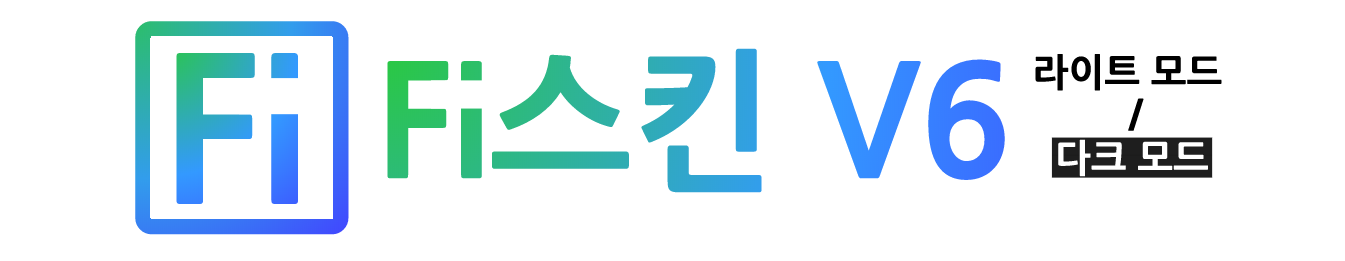
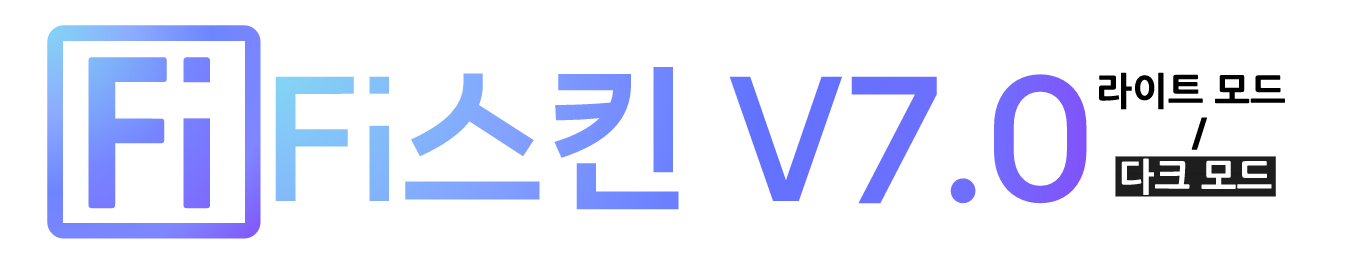
Add files via upload

diff --git a/images/itcider_top.js b/images/itcider_top.js
@@ -1,6 +1,6 @@
 /*
 스킨명 : fast itcider
-버전 : V6.1
+버전 : V7.0
 제작자 : itcider 쉽고 시원한 it
 제작자 웹사이트 : itcider.com
 사용 조건 : itcider license
@@ -12,6 +12,7 @@
 ㄴitcider 공식 웹사이트에서만 배포 가능
 위 주의사항을 어기실 경우 사용 불가합니다.
 */
+/*
 //Get the button:
 mybutton = document.getElementById("myBtn");
 
@@ -25,7 +26,7 @@ function scrollFunction() {
     mybutton.style.display = "none";
   }
 }
-
+*/
 // When the user clicks on the button, scroll to the top of the document
 function topFunction() {
   document.body.scrollTop = 0; // For Safari

diff --git a/images/autolightdark.css b/images/autolightdark.css
@@ -1,7 +1,7 @@
 @charset "UTF-8";
 /*
 스킨명 : fast itcider
-버전 : V6.1
+버전 : V7.0
 제작자 : itcider 쉽고 시원한 it
 제작자 웹사이트 : itcider.com
 사용 조건 : itcider license
@@ -40,7 +40,9 @@
   }
 
 
-
+  blockquote{
+    color: #aaa!important;
+  }
   footer,
   #header,
   .mobile-menu #aside,
@@ -359,7 +361,7 @@
 }
 /*
 스킨명 : fast itcider
-버전 : V6.1
+버전 : V7.0
 제작자 : itcider 쉽고 시원한 it
 제작자 웹사이트 : itcider.com
 사용 조건 : itcider license

diff --git a/images/onlydark.css b/images/onlydark.css
@@ -1,7 +1,7 @@
 @charset "UTF-8";
 /*
 스킨명 : fast itcider
-버전 : V6.1
+버전 : V7.0
 제작자 : itcider 쉽고 시원한 it
 제작자 웹사이트 : itcider.com
 사용 조건 : itcider license
@@ -355,7 +355,7 @@
 
 /*
 스킨명 : fast itcider
-버전 : V6.1
+버전 : V7.0
 제작자 : itcider 쉽고 시원한 it
 제작자 웹사이트 : itcider.com
 사용 조건 : itcider license

diff --git a/images/onlylight.css b/images/onlylight.css
@@ -1,6 +1,6 @@
 /*
 스킨명 : fast itcider
-버전 : V6.1
+버전 : V7.0
 제작자 : itcider 쉽고 시원한 it
 제작자 웹사이트 : itcider.com
 사용 조건 : itcider license
@@ -16,7 +16,7 @@
 
 /*
 스킨명 : fast itcider
-버전 : V6.1
+버전 : V7.0
 제작자 : itcider 쉽고 시원한 it
 제작자 웹사이트 : itcider.com
 사용 조건 : itcider license

diff --git a/images/discopy.js b/images/discopy.js
@@ -1,6 +1,6 @@
 /*
 스킨명 : fast itcider
-버전 : V6.1
+버전 : V7.0
 제작자 : itcider 쉽고 시원한 it
 제작자 웹사이트 : itcider.com
 사용 조건 : itcider license

diff --git a/images/ietoedge.js b/images/ietoedge.js
@@ -1,6 +1,6 @@
 /*
 스킨명 : fast itcider
-버전 : V6.1
+버전 : V7.0
 제작자 : itcider 쉽고 시원한 it
 제작자 웹사이트 : itcider.com
 사용 조건 : itcider license

diff --git a/images/ietoieitc.js b/images/ietoieitc.js
@@ -1,6 +1,6 @@
 /*
 스킨명 : fast itcider
-버전 : V6.1
+버전 : V7.0
 제작자 : itcider 쉽고 시원한 it
 제작자 웹사이트 : itcider.com
 사용 조건 : itcider license

diff --git a/images/ietoitc.js b/images/ietoitc.js
@@ -1,6 +1,6 @@
 /*
 스킨명 : fast itcider
-버전 : V6.1
+버전 : V7.0
 제작자 : itcider 쉽고 시원한 it
 제작자 웹사이트 : itcider.com
 사용 조건 : itcider license

diff --git a/images/itcidercategory.js b/images/itcidercategory.js
@@ -1,6 +1,6 @@
 /*
 스킨명 : fast itcider
-버전 : V6.1
+버전 : V7.0
 제작자 : itcider 쉽고 시원한 it
 제작자 웹사이트 : itcider.com
 사용 조건 : itcider license

diff --git a/images/itcidercopy.js b/images/itcidercopy.js
@@ -1,6 +1,6 @@
 /*
 스킨명 : fast itcider
-버전 : V6.1
+버전 : V7.0
 제작자 : itcider 쉽고 시원한 it
 제작자 웹사이트 : itcider.com
 사용 조건 : itcider license

diff --git a/images/loading.js b/images/loading.js
@@ -1,6 +1,6 @@
 /*
 스킨명 : fast itcider
-버전 : V6.1
+버전 : V7.0
 제작자 : itcider 쉽고 시원한 it
 제작자 웹사이트 : itcider.com
 사용 조건 : itcider license
